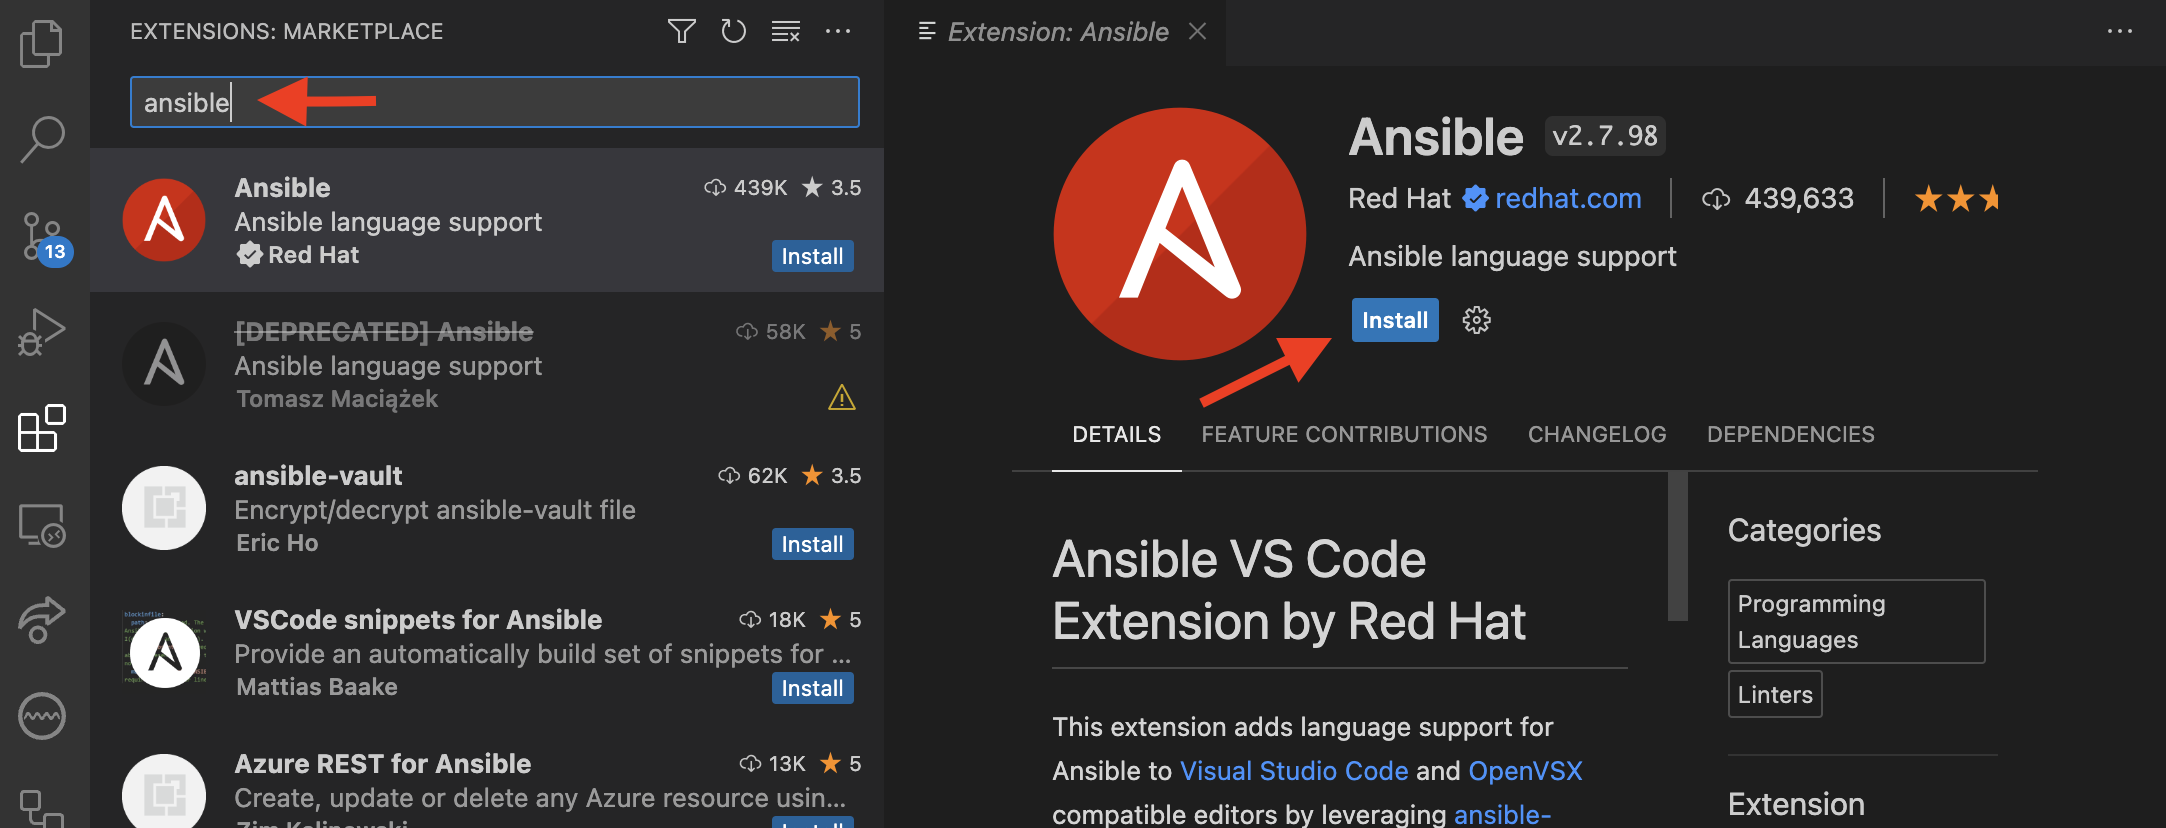
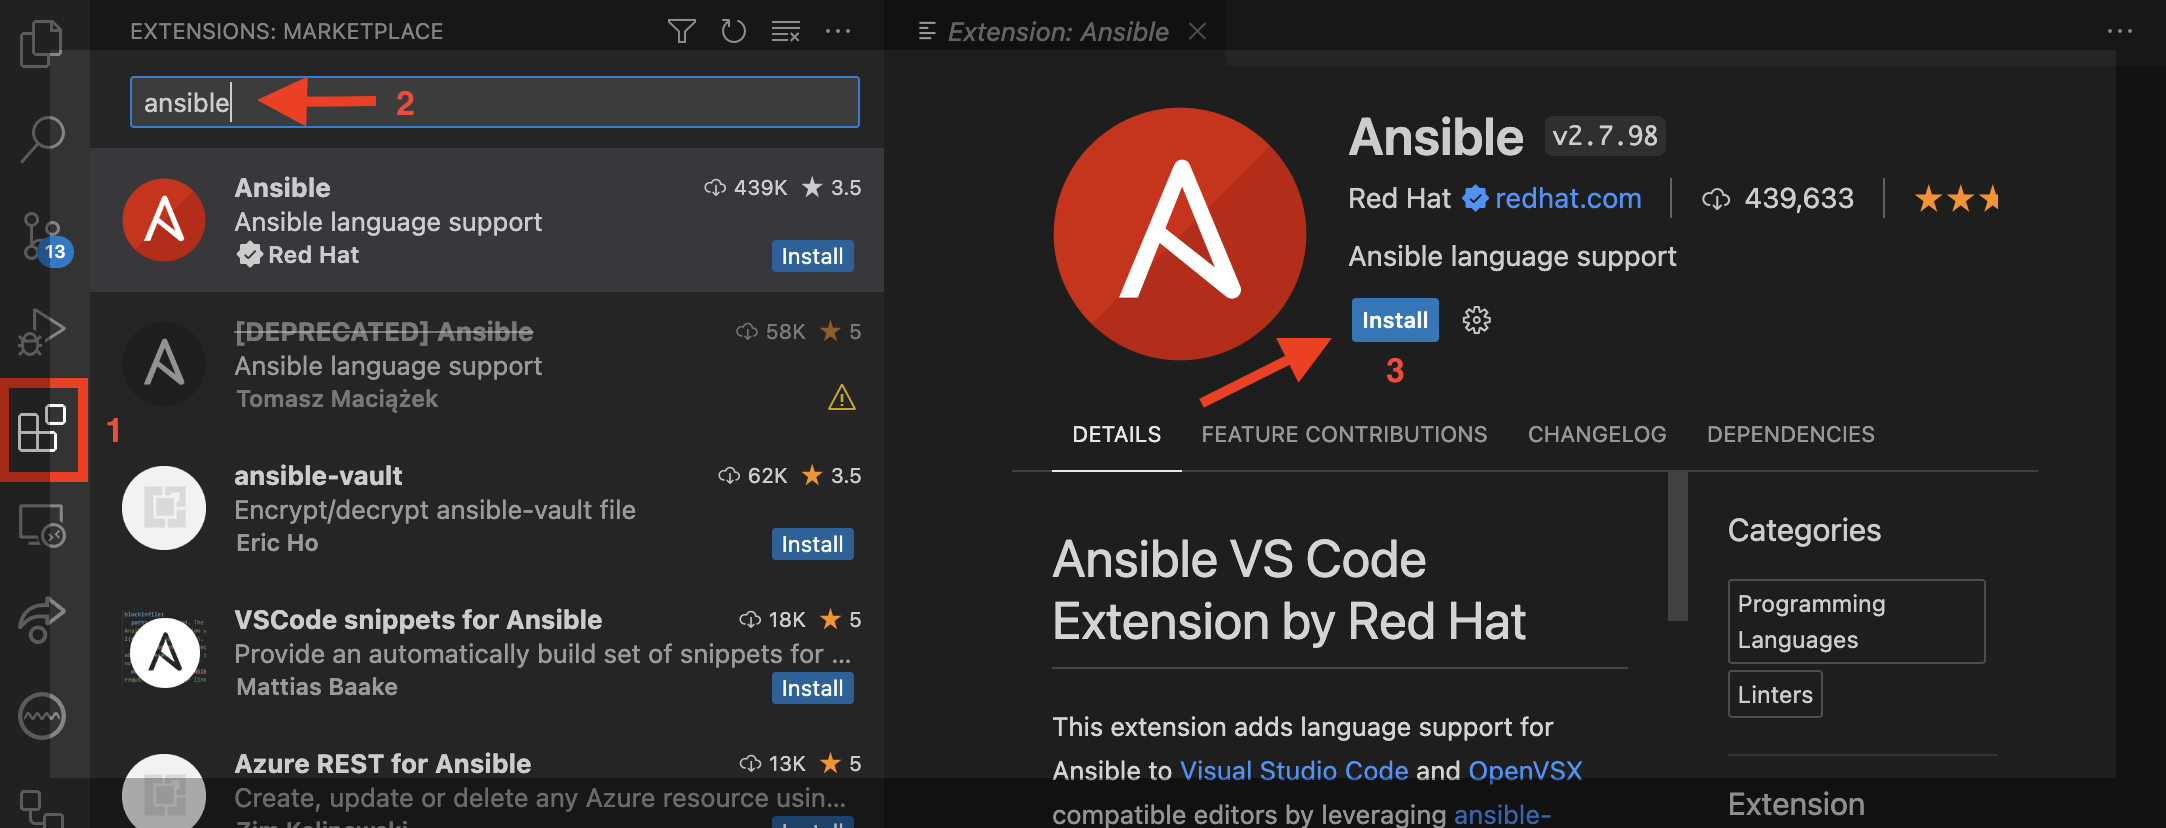
addressing comments

diff --git a/content/Watsonx/CodeAssistant/101.md b/content/Watsonx/CodeAssistant/101.md
@@ -13,16 +13,15 @@ The goal of this lab is to install the Ansible Lightspeed extension and enable a
 ## Install Ansible extension in VS Code
 
 1. Open the VS Code application.
-2. Click the **Extensions** icon on the left sidebar.
-
-    ![](./images/settings-icon.png)
-3. Search for **Ansible** in the search box and then click the **Install** button.
+2. Click the (1) **Extensions** icon on the left sidebar. Then search for (2) **Ansible** in the search box and then click the (3) **Install** button
 
     ![](./images/search-for-ansible.png)
 
 ## Enable the Ansible Lightspeed extension
 
 1. After installing the Ansible extension, click on the little gear icon and select the **Extension Setting** option.
+
+    **Note:** *You may need to restart VS Code before the full set of ansible options is available*
 
     ![](./images/gear-icon.png)
 2. In the Search settings bar, type **lightspeed**
@@ -32,7 +31,7 @@ The goal of this lab is to install the Ansible Lightspeed extension and enable a
 
     ![](./images/enable-lightspeed.png)
 
-**Note:** For the purpose of this demo, we will disable Ansible Lint and Ansible Execution Environment.
+**Note:** *For the purpose of this demo, we will disable Ansible Lint and Ansible Execution Environment.*
 
 1. In the Search settings bar, type **ansible lint**. If it is not already unselected, *uncheck* the **Ansible > Validation > Lint: **Enabled**** box.
 
@@ -71,6 +70,8 @@ The goal of this lab is to install the Ansible Lightspeed extension and enable a
     ![](./images/authorize-ansible-github.png)
 
     f. Upon successful completion of the login flow, you should see a **Logged in as your GitHub id** message in the Ansible side bar like the one below:
+
+    **Note:** *You may be prompted to allow access to VS Code from your browser and vice versa. Make sure you allow this.*
 
     ![](./images/ansible-logged.png)
     

diff --git a/content/Watsonx/CodeAssistant/102.md b/content/Watsonx/CodeAssistant/102.md
@@ -35,7 +35,7 @@ The model is available through a Visual Studio Code (VS Code) extension called *
 
 2.  On the bottom-right corner, you should see **Lightspeed**. Ansible Lightspeed is ready for you to write playbooks.
 
-    **Note:** Check that your Python environment is also selected.
+    **Note:** *Check that your Python environment is also selected.*
 
     ![](./images/lightspeed-status-bar.png)
 
@@ -57,7 +57,7 @@ The model is available through a Visual Studio Code (VS Code) extension called *
 
 6. Press the  *Esc* key to decline the recommendation. The faded recommendation should disappear.
 
-7. You can see how simple it is to accept and decline a recommendation. Let's try adding a mode advanced task. Create a new task with this sentence `HTTP GET request to the public URL https://bam-api.res.ibm.com/v1/models`.
+7. You can see how simple it is to accept and decline a recommendation. Let's try adding a more advanced task. Create a new task with this sentence `HTTP GET request to the public URL https://bam-api.res.ibm.com/v1/models`.
 
 
     ![](./images/http-request.png)
@@ -71,7 +71,7 @@ The model is available through a Visual Studio Code (VS Code) extension called *
 
     ![](./images/print-result.png)
 
-    **Note**: Lightspeed also provides source code recommendations in the debugging window beside the terminal. It shows more information if you extend it.
+    **Note**: *Lightspeed also provides source code recommendations in the debugging window beside the terminal. It shows more information if you extend it.*
 
     ![](./images/source-code-recommendations.png)
 
